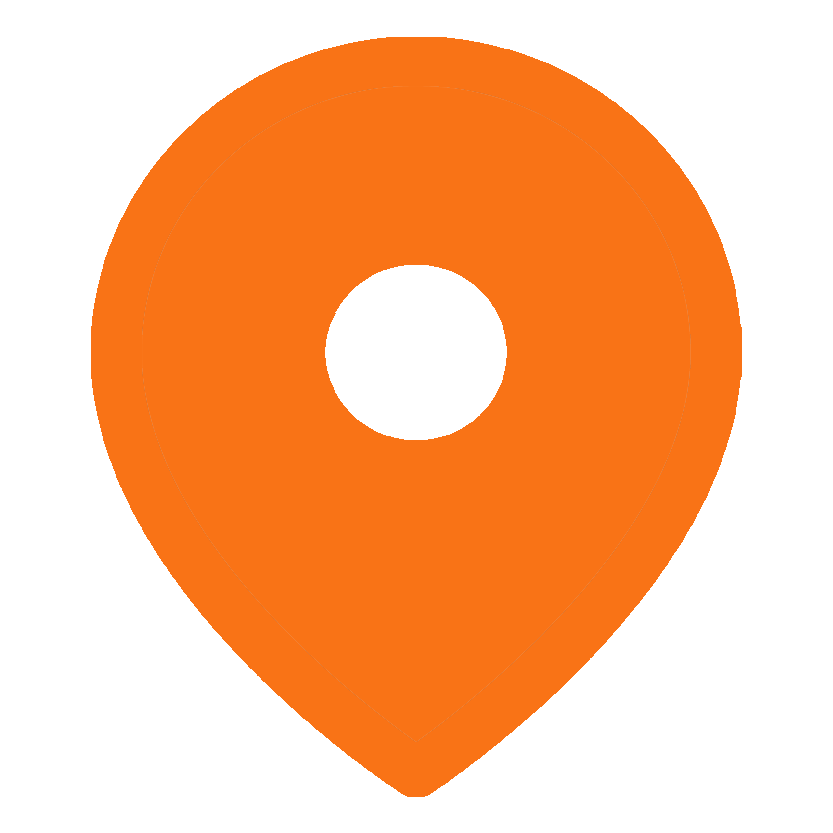
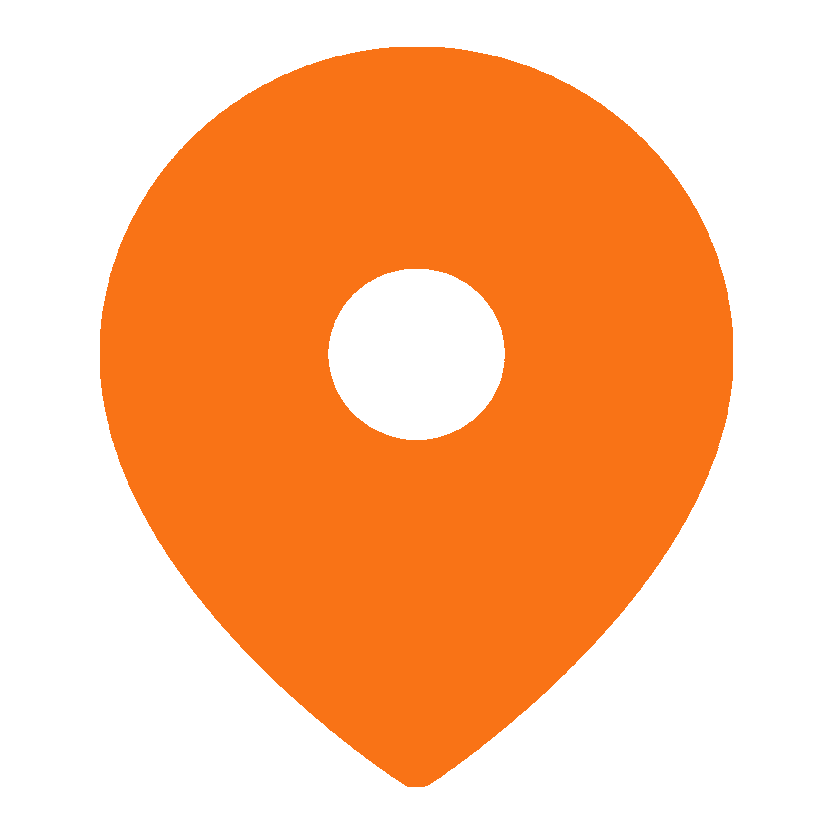
feat: 添加ui稿

diff --git a/docs/图标.md b/docs/图标.md
@@ -1,0 +1,2 @@
+ps
+高为740px
